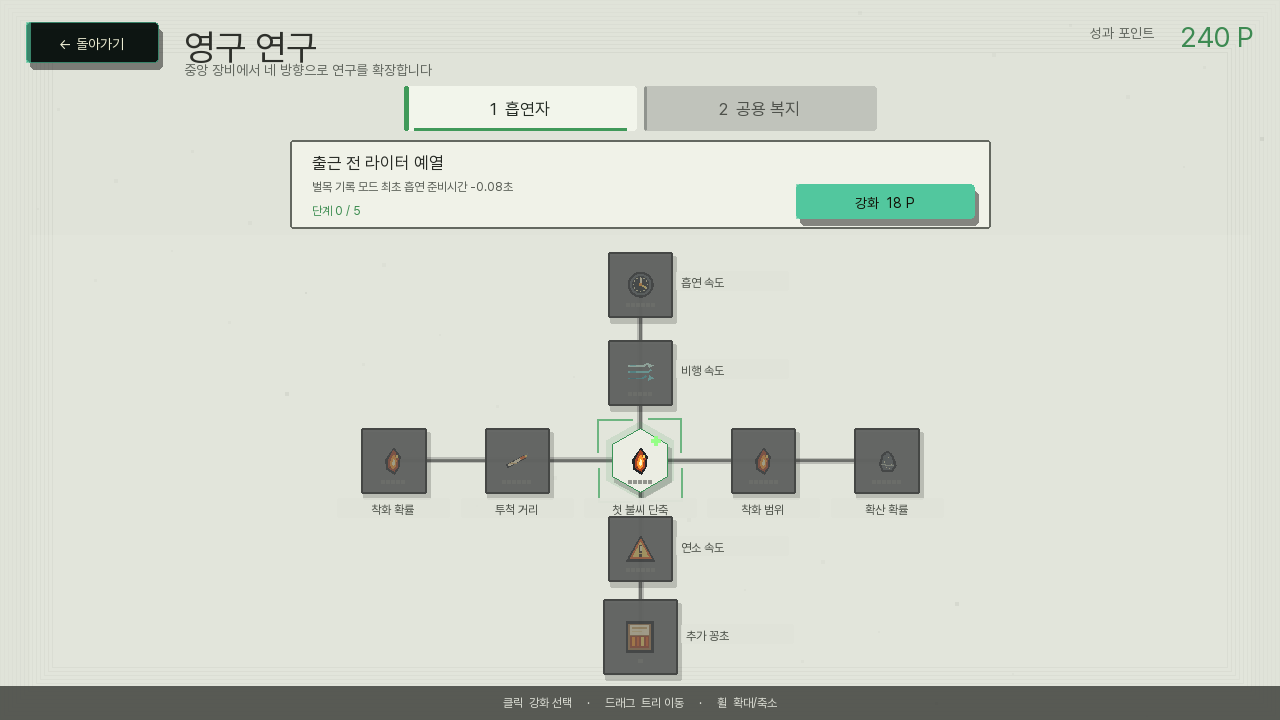
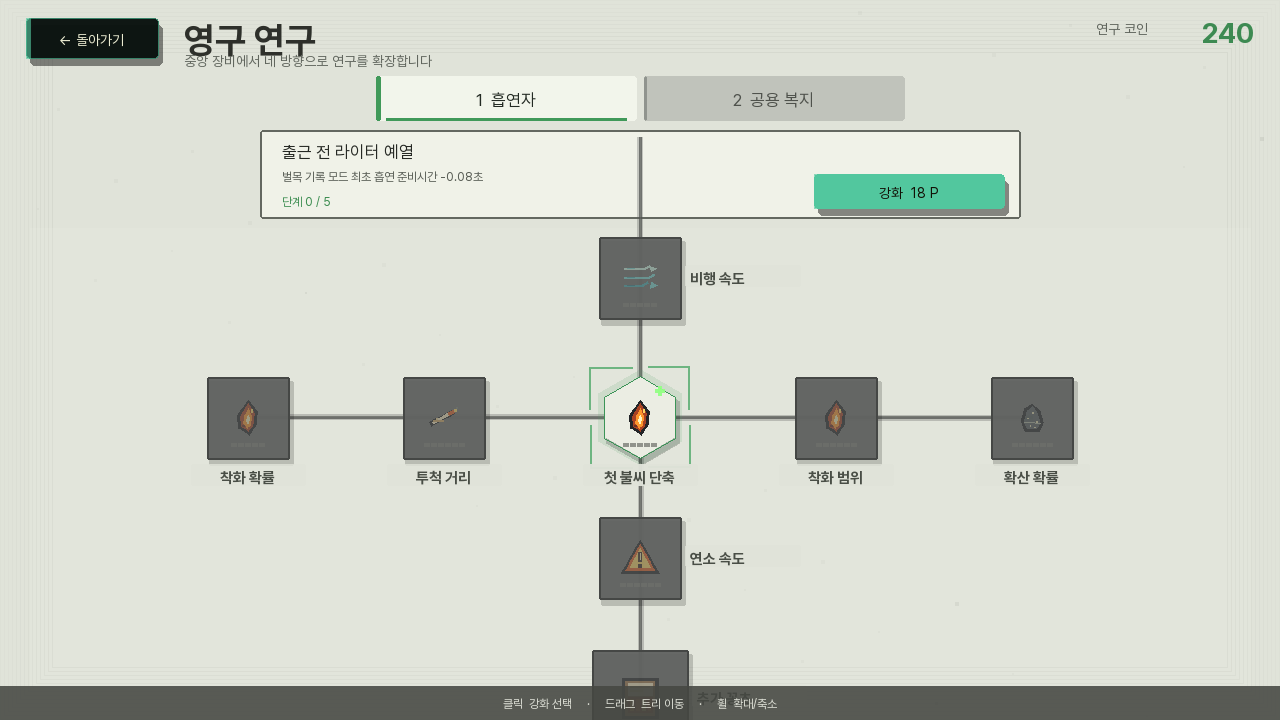
fix: preserve research graph spacing across zoom

diff --git a/docs/character_dossier.html b/docs/character_dossier.html
@@ -416,7 +416,7 @@
     <div class="score-rule"><span class="score-rule-label">자동 산림 공급</span><span class="score-rule-value">0그루 달성 · 0.86초 잎/프리즘 단계 상승 연출 · 6그루 순차 발아 · 다음 단계 영구 해금</span></div>
     <div class="score-rule"><span class="score-rule-label">몬스터 투입</span><span class="score-rule-value">첫 45초 없음 · 이후 동시 1→2→3→4마리</span></div>
     <div class="score-rule"><span class="score-rule-label">런 성장</span><span class="score-rule-value">목재 경험치 → 비전투 운영 카드 3택</span></div>
-    <div class="score-rule"><span class="score-rule-label">영구 연구 화면</span><span class="score-rule-value">중앙 루트에서 상·하·좌·우 4방향 분기 · 축소 노드와 분리 라벨 · 밝은 회백색 작업면 · 초록 활성 경로</span></div>
+    <div class="score-rule"><span class="score-rule-label">영구 연구 화면</span><span class="score-rule-value">중앙 루트에서 상·하·좌·우 4방향 분기 · 방향별 동일 단계 간격 · 기준 간격의 85~115% 줌 · 화면 해상도별 한글 폰트 재래스터</span></div>
     <div class="score-rule"><span class="score-rule-label">결과 화면</span><span class="score-rule-value">수종별 목재 집계 → 1개씩 회전 코인으로 순차 변환 → 영구 연구/재도전 (이동 시 잔여분 즉시 정산)</span></div>
   </section>
   <div class="toolbar">
